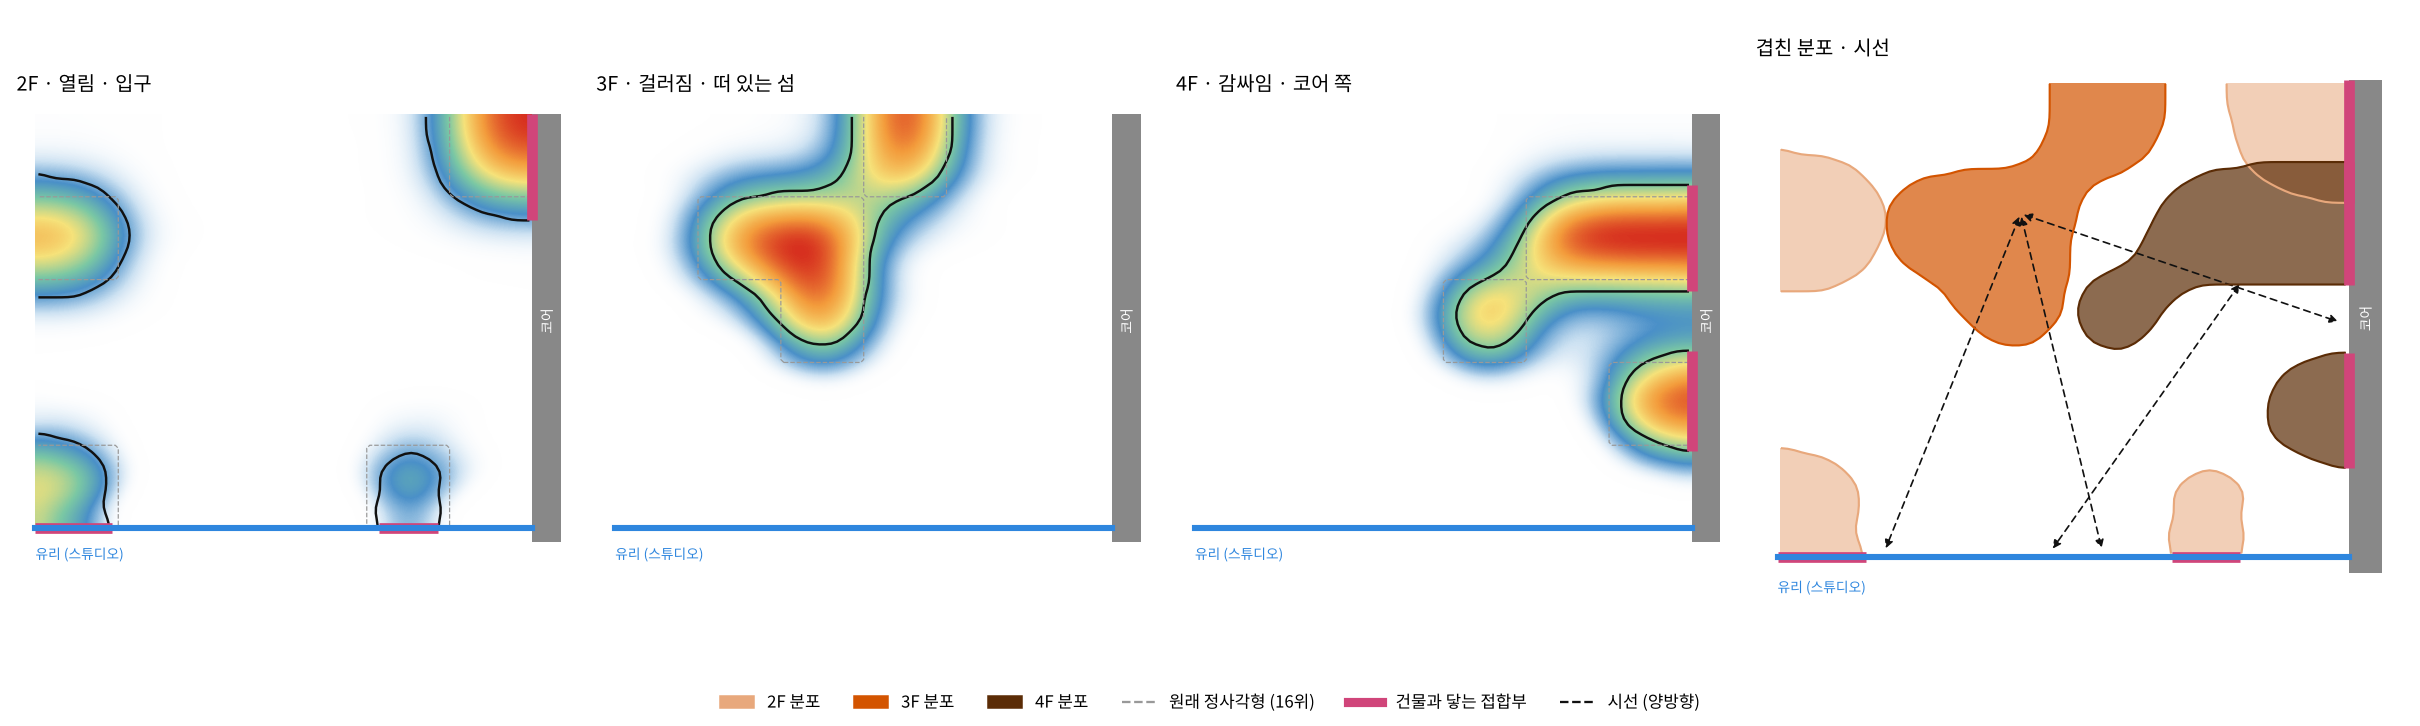
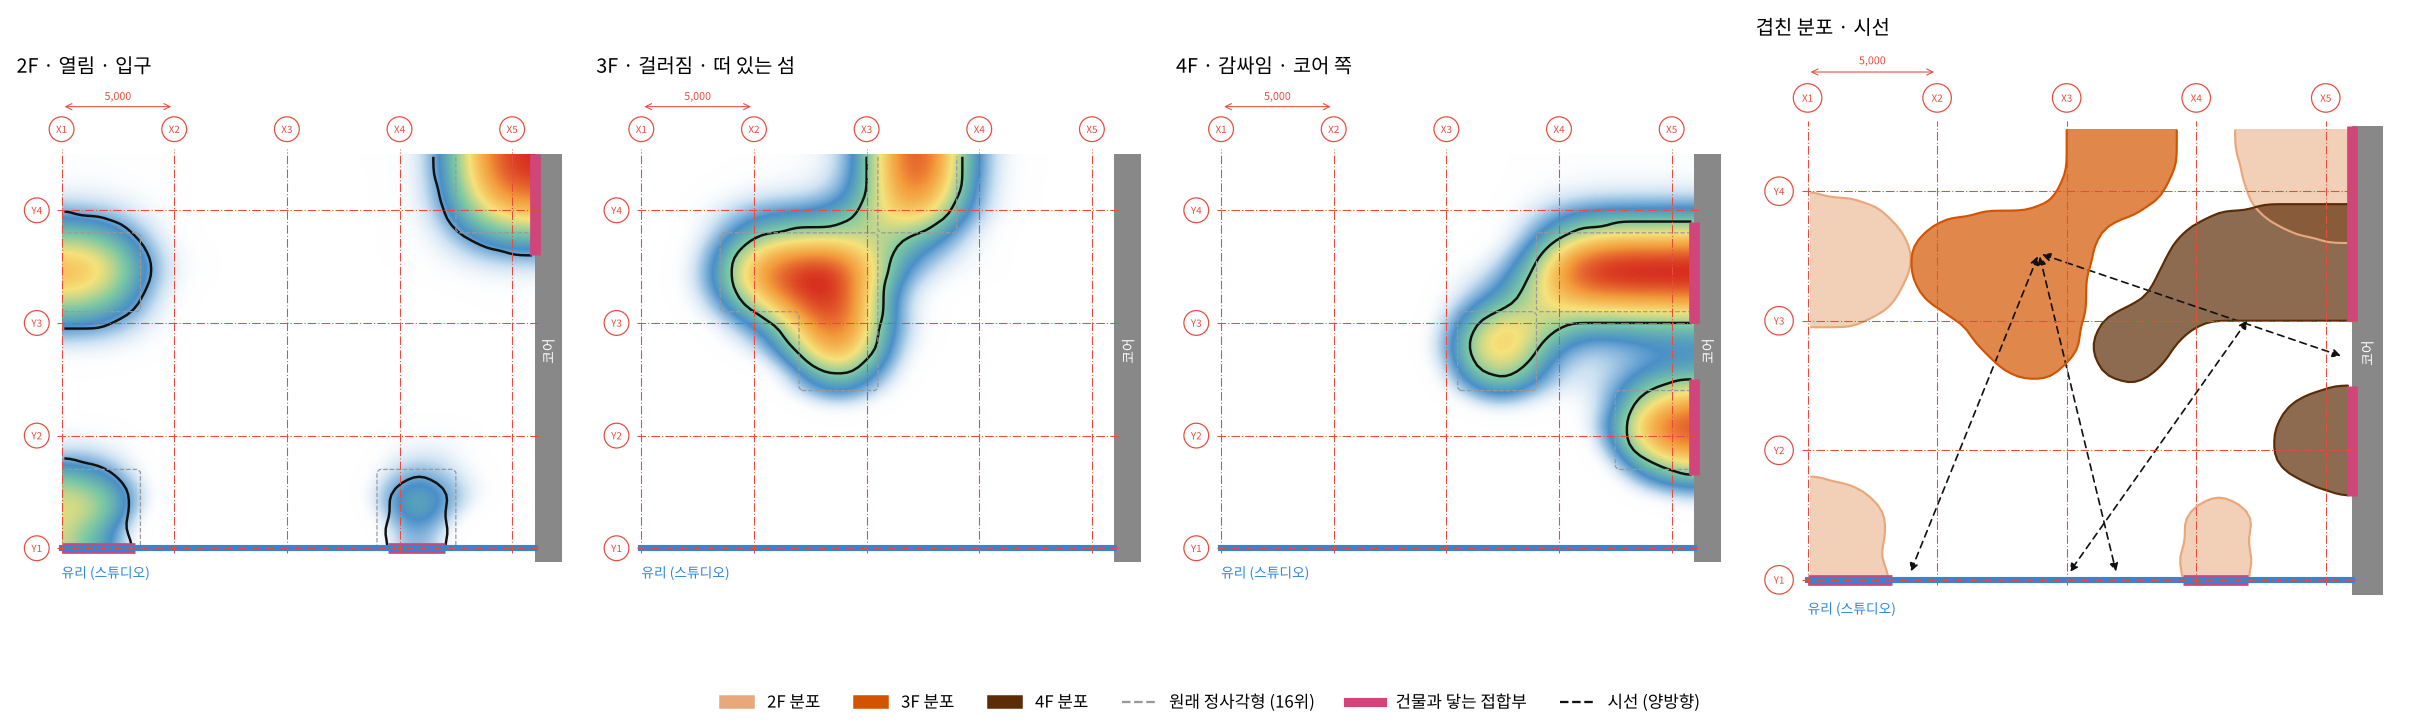
분포 평면에 5,000 그리드 센터선 추가
Claude-Session: https://claude.ai/code/session_01Xa3wJEBtDp5CtQQbLusVKQ

diff --git a/index.html b/index.html
@@ -465,7 +465,7 @@ footer{max-width:1180px;margin:0 auto;padding:24px;border-top:1px solid var(--li
 <li><b>조건 유지</b> — 3층은 건물에서 1.5m 이상 떨어지고, 2 · 4층은 원래 접합부에서 가장 가까운 분포까지 폭 약 2m의 다리로 잇는다.</li>
 </ul>
 </div>
-<figure><img src="img/blob16_plan.png" alt="16위를 씨앗으로 빛을 반영해 퍼진 층별 분포와 겹친 분포 위 시선"><figcaption>색은 분포의 세기(파랑 → 빨강), 검은 선은 남긴 경계, 회색 점선은 원래 정사각형. 위쪽 직선은 계획 범위의 끝.</figcaption></figure>
+<figure><img src="img/blob16_plan.png" alt="16위를 씨앗으로 빛을 반영해 퍼진 층별 분포와 겹친 분포 위 시선"><figcaption>색은 분포의 세기(파랑 → 빨강), 검은 선은 남긴 경계, 회색 점선은 원래 정사각형, 빨간 일점쇄선은 5,000 간격 그리드(X1~X5 · Y1~Y4, 기준점은 유리면 남쪽 끝). 위쪽 직선은 계획 범위의 끝.</figcaption></figure>
 <figure><img src="img/blob16_light.png" alt="정사각형 16위와 빛 분포의 층별 빛 비교" style="max-width:640px"><figcaption>같은 면적인데 점수가 88.8 → 90.6으로 오른다. 가장 손해를 보던 1층이 75 → 79%로 가장 많이 좋아진다.</figcaption></figure>
 <table>
 <tr><th>층</th><th>정사각형에서</th><th>분포에서</th></tr>
